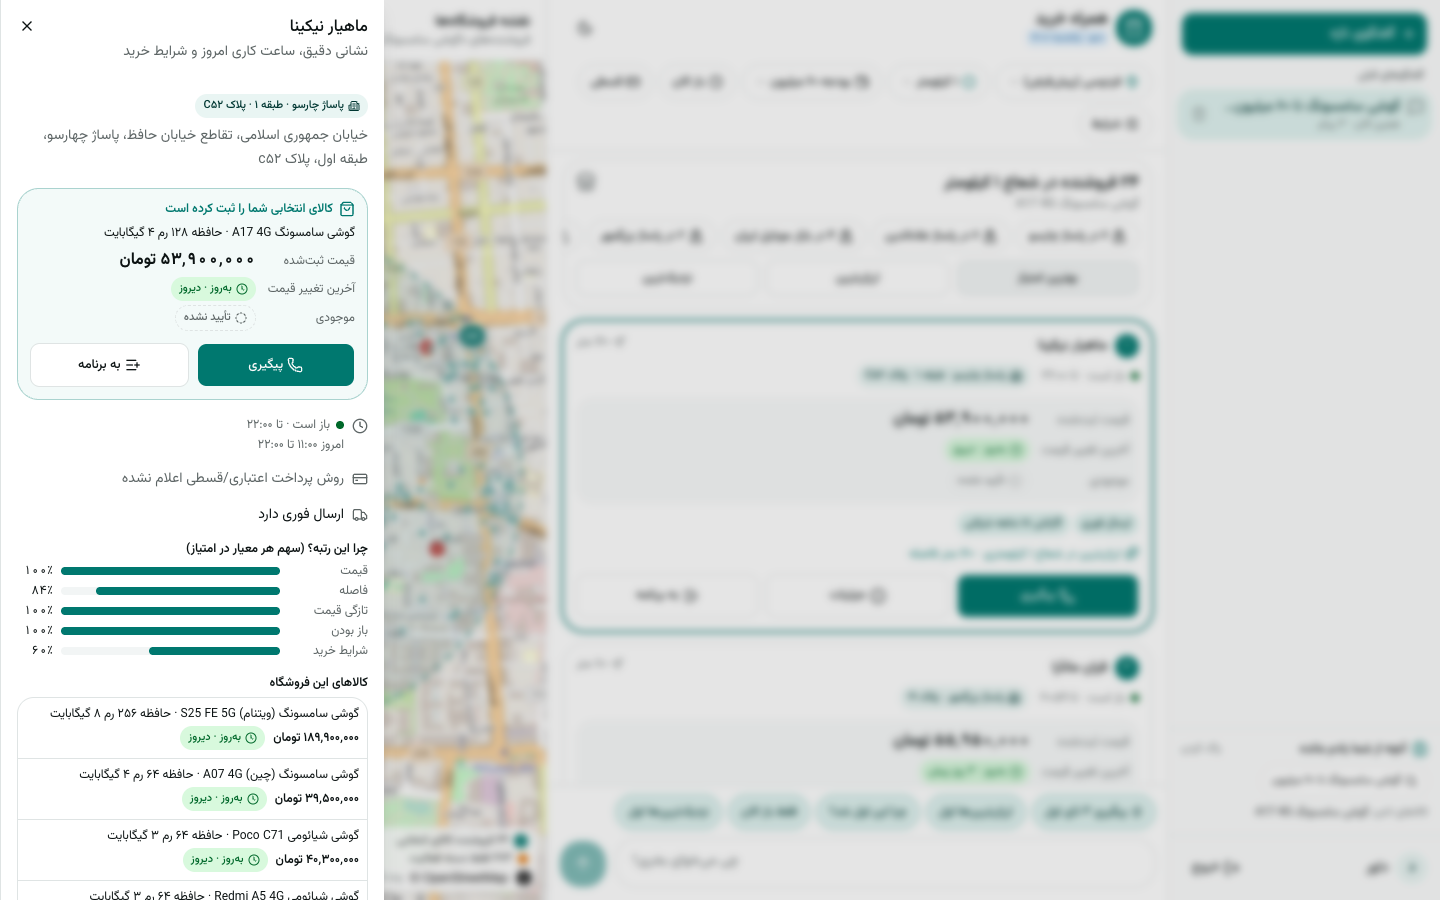
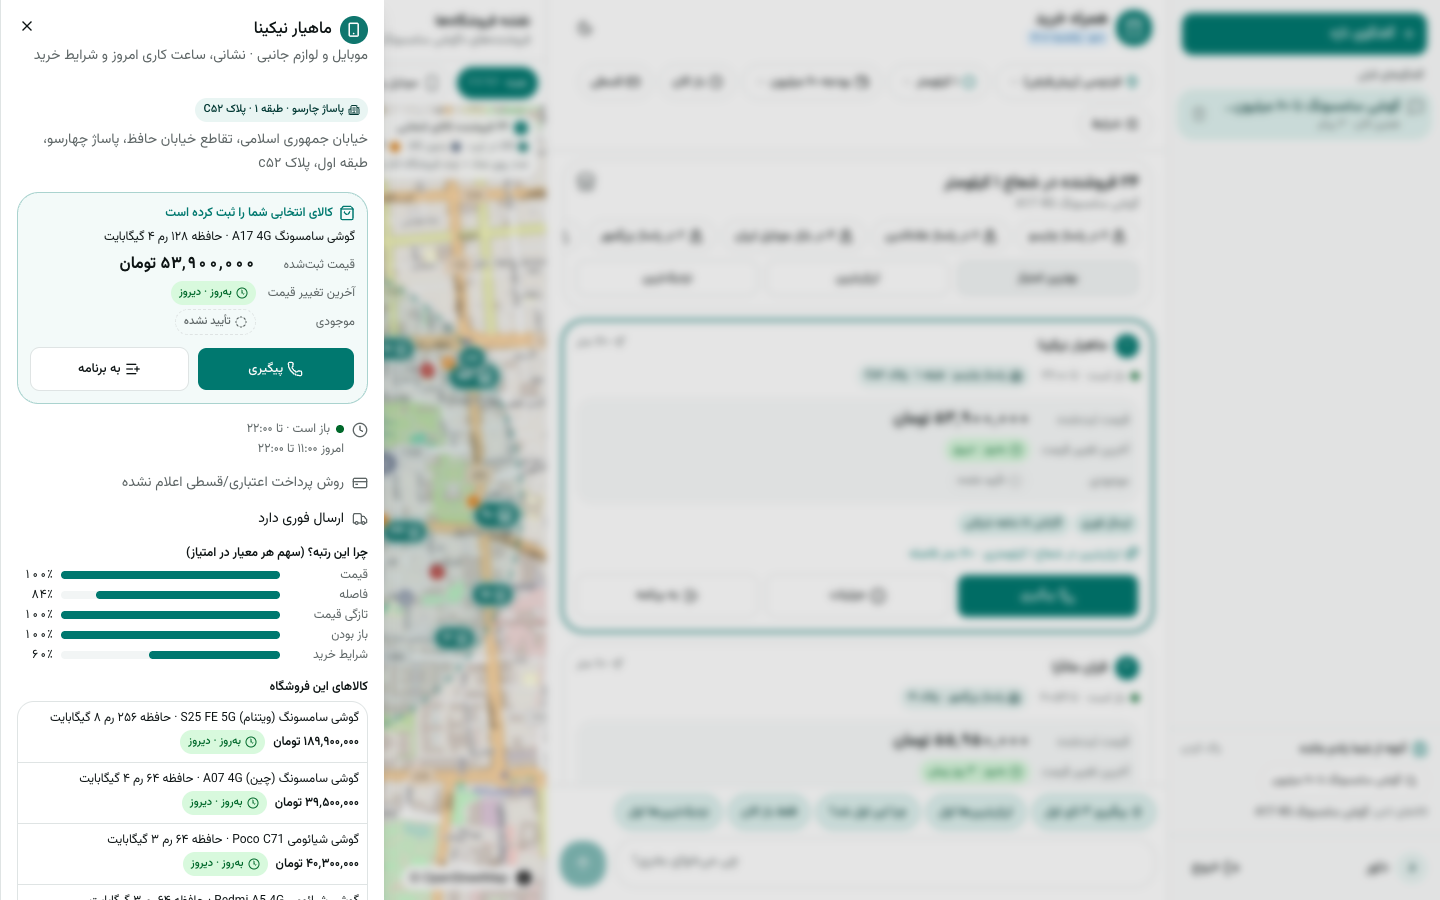
docs: shop types on the map, decisions 54–57, refreshed screenshots

Changed region(s): [[0.0, 0.0622, 0.4062, 1.0], [0.0938, 0.0, 0.25, 0.0622], [0.0625, 0.4044, 0.0938, 0.4356]]

diff --git a/README.md b/README.md
@@ -32,7 +32,7 @@
 - **Sign in with just a name** («اسمت چیه؟») — chats are saved per user. There is no password: whoever types the same name opens the same history (a deliberate hackathon trade‑off, [DECISIONS #43](docs/DECISIONS.md)).
 - **Chat history.** Previous chats are listed with their title and last activity (sidebar on desktop, sheet on mobile); opening one brings back every card — seller list, follow‑up board with its outcomes, visit plan — and continues the conversation. Each chat has its own URL (`/?c=<id>`), so back/forward and reload work.
 - **Memory across chats.** The usual location and radius, recent searches and recently chosen products are remembered per user. A new chat starts at the remembered location, greets by name and offers «از جایی که مانده بودیم» (resume the last chat or repeat a recent search); the agent gets the same facts as a short prompt block. «پاک کردن» clears it.
-- **Every shop on the map.** All shops within the radius are drawn (teal: lists the chosen product · amber: activity category only · gray: other shops), the current seller list as numbered pins, names on hover. Tapping any shop opens its sheet: address with mall/floor/unit, today's hours, conditions, the chosen product's offer with «پیگیری» / «به برنامه», the score breakdown (for shops in the seller list) and the shop's other products.
+- **Every shop on the map, by shop type.** All shops within the radius are drawn with an icon for their type (mobile, computer, audio/video, CCTV, electronic parts, electrical & lighting, tools, appliances, apparel, beauty, medical, auto… — derived from the ~4,000 activity categories, «فعالیت ثبت نشده» when the dataset has none) and a colour for what Torob knows (teal: lists products · gray: no listings · amber: only the activity category matches the chosen product). Chips above the map filter by type with counts. Shops that share a building (up to 45 at one point in the bazaar) are grouped into a pill with a shop icon and the count that zooms in on tap and, inside a mall, lists its shops. The current seller list stays as numbered pins. Tapping any shop opens its sheet: type, address with mall/floor/unit, today's hours, conditions, the chosen product's offer with «پیگیری» / «به برنامه», the score breakdown (for shops in the seller list) and the shop's other products.
 
 ### Transparency rules (visible on every seller card)
 - **Three separate fields, three visual treatments:** «قیمت ثبتشده» (listed price) · «آخرین تغییر قیمت» (green ≤ 7 d, amber ≤ 30 d, red older, gray unknown) · «موجودی» (stays «تأیید نشده» until a follow‑up confirms it).
@@ -44,11 +44,11 @@
 
 | Criterion (pts) | Where it shows |
 |---|---|
-| **Product (75)** | All four steps end to end; mall → floor → unit navigation from free‑text addresses (4,088 shops parsed); price‑freshness and suspicious‑price flags; category‑only shops separated; follow‑ups with automatic alternatives; visit plan with open‑at‑arrival warnings; shareable plan; checklist; every shop of the area selectable on the map; per‑user chat history with resume. |
+| **Product (75)** | All four steps end to end; mall → floor → unit navigation from free‑text addresses (4,088 shops parsed); price‑freshness and suspicious‑price flags; category‑only shops separated; follow‑ups with automatic alternatives; visit plan with open‑at‑arrival warnings; shareable plan; checklist; every shop of the area on the map by type, filterable and selectable; per‑user chat history with resume. |
 | **UX (75)** | Mobile‑first RTL (390 px) **and** a desktop layout (≥ 1024 px: history · chat · live map); Vazirmatn, Persian digits everywhere; chat **plus** structured controls: sticky ContextBar (location, radius, price cap, conditions, intent) re‑filters the list **instantly without the LLM**; generative UI cards; skeletons; empty states with one tappable fix; 44 px targets; dark mode; Lighthouse mobile **92 / 100 / 100** (M5 build). |
 | **Intelligence (50)** | Vercel AI SDK v7 agent with 10 tools; deterministic‑first category routing (product votes + trigram) with LLM refinement; Persian budget parser; explainable seller score and «چرا این اول شد؟» grounded in `score_breakdown`; proactive rules (stale price → follow up, out of stock → alternatives, confirmed → plan); memory across chats (usual location/radius, recent searches and products); automatic fallback to a rule‑based model when the provider fails. |
 | **Deploy (40)** | `docker compose up -d` → PostgreSQL 16, app (Next standalone, non‑root, healthcheck), Caddy (automatic HTTPS); migrations + **auto‑seed** on first boot (~30 s); `/api/healthz`; exact VPS commands in [docs/DEPLOY.md](docs/DEPLOY.md). |
-| **Engineering (40)** | TypeScript end to end, Drizzle schema & migrations, COPY‑based seed with 4 streaming passes, pure tested modules (107 unit tests), golden search suite, Playwright scenario (27 checks on phone and desktop viewports), CI (typecheck · lint · test), decisions log ([docs/DECISIONS.md](docs/DECISIONS.md)). |
+| **Engineering (40)** | TypeScript end to end, Drizzle schema & migrations, COPY‑based seed with 4 streaming passes, pure tested modules (142 unit tests), golden search suite, Playwright scenario (28 checks on phone and desktop viewports), CI (typecheck · lint · test), decisions log ([docs/DECISIONS.md](docs/DECISIONS.md)). |
 | **Dataset (20)** | Uses all three CSVs: Persian normalization (ی/ک, digits, ZWNJ), mall/floor/unit parser with spelling unification (علاالدین/علاءالدین/علائدین…), hours with `declared/closed/unsupported`, price age & suspicious‑price flags vs product median, payment providers with in‑person vs declared channel, warranty parsing, brand inference for the 75 % of products without a brand. |
 
 ## Architecture
@@ -58,7 +58,7 @@ flowchart LR
   subgraph Browser["Web — phone and desktop (Next.js, RTL)"]
     UI["Chat + generative cards<br/>ContextBar · SellerList · FollowupBoard · TripPlan"]
     HIST["Name sign-in · chat history"]
-    MAP["MapLibre + OSM tiles<br/>all shops + numbered sellers"]
+    MAP["MapLibre + OSM tiles<br/>shop-type icons · clusters · numbered sellers"]
   end
   subgraph App["Next.js 15 route handlers"]
     CHAT["/api/chat<br/>AI SDK v7 streamText + tools<br/>+ user memory in the prompt"]
@@ -165,12 +165,12 @@ app/            page, /plan/[id], /demo-reset, api/{chat,session,sellers,followu
 components/     app shell (login, history, ContextBar, sheets, composer, map column) and cards (products, compare, sellers, follow-ups, alternatives, plan, checklist)
 lib/auth.ts     name-only sign-in (cookie → users row), memory save
 lib/fa          Persian normalization, digits, formatting
-lib/data        mall/floor/unit parser, opening hours, price quality, payments, warranty
+lib/data        mall/floor/unit parser, opening hours, price quality, payments, warranty, shop types from activity categories
 lib/search      query parsing, category routing, product ranking, sellers + score, alternatives, places, shops near a point
 lib/agent       tools, system prompt, chats (session state + messages), memory, suggestions, offline model, checklist
 lib/sim         seller simulator, persona transcripts, follow-up service
 lib/plan        visit planner
-scripts         seed, golden, scenario, smoke, llm-check, tune-salt
+scripts         seed, golden, scenario, smoke, llm-check, tune-salt, shop-types-report
 docs            spec, run plan, DECISIONS, PROGRESS, DEPLOY, DEMO, screenshots
 ```
 

diff --git a/docs/DEMO.md b/docs/DEMO.md
@@ -9,7 +9,7 @@ Goal: from «گوشی سامسونگ تا ۶۰ میلیون» to a confirmed, ma
 3. With an LLM key the agent speaks freely; without one the header shows «حالت آفلاین» and the same flow runs with the rule‑based model (all numbers still come from tools).
 4. `SIM_SALT=hamrah-40` gives the mixed outcomes below for the top‑3 sellers.
 
-The whole flow is automated by `pnpm scenario <app-url>` (27 checks; `--desktop` for 1440×900, `--dark` for dark mode); the screenshots below come from it (desktop ones in `docs/screenshots/desktop/`).
+The whole flow is automated by `pnpm scenario <app-url>` (28 checks; `--desktop` for 1440×900, `--dark` for dark mode); the screenshots below come from it (desktop ones in `docs/screenshots/desktop/`).
 
 ## Script
 
@@ -19,7 +19,7 @@ The whole flow is automated by `pnpm scenario <app-url>` (27 checks; `--desktop`
 | 1 | Tap **«گوشی سامسونگ تا ۶۰ میلیون نزدیک من»** | 4 product cards: A17 128/4 (from ۵۳٬۹۰۰٬۰۰۰ · ۲۶ فروشنده), A07 64/4, A07 128/6, A17 128/6 flagged «کمی بالاتر از بودجه», each with a «چرا» line | Budget parsed deterministically; reasons are templated from data, not invented | `03-products.png` |
 | 2 | Tap **«مقایسه»** on the first two → **«مقایسه کن»** → **«انتخاب»** under A17 128/4 | Compare table (differing specs + price/seller rows), then the seller list | Step 1 → step 2 without typing | `04-compare.png` |
 | 3 | — | «۲۴ فروشنده در شعاع ۱ کیلومتر», cluster chips (چارسو ۶، علاءالدین ۶، بازار موبایل ایران ۴، بزرگمهر ۲، خانه موبایل ۲); cards with mall · floor · unit | Mall navigation parsed from free‑text addresses | `05-sellers.png`, `06-seller-cards.png` |
-| 3b | Tap **«نقشه»** (desktop: the map column) | Radius circle, **every shop of the area** as a dot (teal: lists the product · amber: activity category only · gray: other shops), the seller list as numbered pins; tap pin **«۱»** → shop sheet: address with mall/floor/unit, today's hours, the chosen product's offer with «پیگیری» / «به برنامه», score shares, other products | Any shop on the map can be opened and acted on | `07-map.png`, `08-map-shop-details.png` |
+| 3b | Tap **«نقشه»** (desktop: the map column) | Radius circle, **every shop of the area** with an icon for its type (teal: lists products · gray: no listings · amber bubble: only the activity category matches), shops of one building grouped into pills with a shop icon and their count, the seller list as numbered pins; type chips with counts above the map → tap **«موبایل و لوازم جانبی»** and back to «همه»; tap pin **«۱»** → shop sheet: type, address with mall/floor/unit, today's hours, the chosen product's offer with «پیگیری» / «به برنامه», score shares, other products. Tapping a pill zooms in; inside a mall it lists the shops | Any shop on the map can be found by type, opened and acted on | `07-map.png`, `07b-map-type-filter.png`, `08-map-shop-details.png` |
 | 3c | Tap **«باز الان»**, then the radius chip → **«۵۰۰ متر»** | List shrinks to 18 in place — no chat round trip | ContextBar re-filters without the LLM | `09-sellers-open-500m.png` |
 | 3d | Tap **«قسطی»** | 0 results + banner «حذف فیلتر قسطی (+۱۸)» → tap it | Relaxation hints; only 128 shops declare installments | `10-installment-relaxation.png` |
 | 4 | Point at the first card, then type **«چرا این اول شد؟»** | Three separate fields: قیمت ثبتشده · آخرین تغییر قیمت (green/amber/red) · موجودی «تأیید نشده»; answer from `why` + `score_breakdown` | Transparency rules of the challenge | `11-why-first.png` |
@@ -31,7 +31,7 @@ The whole flow is automated by `pnpm scenario <app-url>` (27 checks; `--desktop`
 
 ## Talking points (30 s wrap‑up)
 
-- **Product/UX:** four steps, chat + controls, mall → floor → unit, open‑at‑arrival, Persian everywhere; phone and desktop layouts; every shop selectable on the map.
+- **Product/UX:** four steps, chat + controls, mall → floor → unit, open‑at‑arrival, Persian everywhere; phone and desktop layouts; every shop on the map by type, filterable and selectable.
 - **Transparency:** listed price ≠ price age ≠ confirmed stock; unknown stays unknown; category‑only shops are separate.
 - **Intelligence:** tool‑calling agent with explainable ranking, proactive follow‑ups and alternatives, memory across chats; graceful offline fallback.
 - **Engineering/deploy:** one `docker compose up -d`, auto‑seed in ~30 s, healthz, CI, golden + scenario tests.

diff --git a/docs/PROGRESS.md b/docs/PROGRESS.md
@@ -130,10 +130,24 @@ Acceptance:
 - `pnpm scenario` with the live model (OpenAI `gpt-5.4-mini`, demo time Sunday 16:00): **27/27** on 390 px, **27/27** with `--desktop` (1440×900), and **27/27** against the rebuilt Docker image through Caddy (`http://localhost:8088`, 52 s). Screenshots: `docs/screenshots/` and `docs/screenshots/desktop/`.
 - `pnpm llm-check`: openai (`gpt-5.4-mini`) OK in 2.6 s, google (`gemini-3.1-flash-lite`) OK in 1.1 s, openrouter (`openai/gpt-4.1-mini`) OK in 2.1 s.
 
+## Post-v1 — Shop types on the map ✅
+
+Request (owner, 2026-10-23): shops were plain dots that did not read as shops until hovered; show an icon, different icons per shop type, and group/filter by type.
+
+Done:
+- 20 shop types from the activity categories (rules + majority vote, fallback to listed products, «فعالیت ثبت نشده» when the dataset has neither), cached per process; `/api/shops/near` returns the type and mall; the shop sheet shows the type.
+- Map: a badge per shop with its type icon (colour = lists products / no listings / category-only), cluster pills «shop icon + Persian count» with an amber category-only bubble, tap to zoom or — inside one building — a list of its shops; type chips with counts; collapsible legend on phones.
+- Unit tests for the type rules (incl. substring traps such as «تهویه» ⊃ «هویه», «آداپتور» ⊃ «پتو»).
+
+Acceptance:
+- `pnpm typecheck && pnpm lint && pnpm test` green (142 unit tests).
+- `pnpm scenario`: **28/28** on 390 px, **28/28** with `--desktop` and **28/28** against the rebuilt Docker image (`http://localhost:8088`) (new checks: type chips with counts, a chip filters the map, the shop sheet shows the type). Screenshots `07-map.png`, `07b-map-type-filter.png` (phone and desktop).
+- Around the default location (1 km): 2,692 shops besides the sellers — mobile 494, CCTV 187, tools 177, audio/video 166, …, 724 «فعالیت ثبت نشده».
+
 ## Final status
 
-- `pnpm typecheck && pnpm lint && pnpm test && pnpm golden` → green (107 unit tests; golden 15/15 queries + 10/10 seller checks).
-- Demo scenario §13 steps 1–7 plus history/memory (step 8): `pnpm scenario` 27/27 (phone, desktop and Docker), `?demo_time=` and `/demo-reset?name=` supported.
+- `pnpm typecheck && pnpm lint && pnpm test && pnpm golden` → green (142 unit tests; golden 15/15 queries + 10/10 seller checks).
+- Demo scenario §13 steps 1–7 plus history/memory (step 8): `pnpm scenario` 28/28 (phone, desktop and Docker), `?demo_time=` and `/demo-reset?name=` supported.
 - All three LLM providers verified live on 2026-10-23 (`pnpm llm-check`: 3 ok).
 - CI: GitHub Actions (install → typecheck → lint → test) on every push.
 - Parsed malls for 4,088 shops (after parser refinements in M1).

diff --git a/docs/DECISIONS.md b/docs/DECISIONS.md
@@ -57,3 +57,7 @@ One line per deviation from `docs/01-master-build-spec.md`, with the reason.
 | 51 | Post-v1 | `faText` is applied to all LLM-authored text (assistant messages, checklist items, transcripts). | Live models write ASCII digits («حافظه 128»); the UI rule is Persian digits everywhere. |
 | 52 | Post-v1 | `/api/me` answers 200 `{user:null}` when signed out. | Browsers log a 401 as a console error, and being signed out is a normal state. |
 | 53 | Post-v1 | The Google model in `llm-check` and the docs is `gemini-3.1-flash-lite`. | `gemini-2.5-flash` is no longer offered to new API users; `gemini-3.1-flash-lite` passes the tool-call check in ~4 s. |
+| 54 | Post-v1 | Shop type for the map = 20 types (`lib/data/shop-types.ts`) derived from the ~4,000 flat activity categories by ordered keyword rules (`lib/data/shop-type-rules.ts`, word-boundary matches, ambiguous categories vote with weight ½ or not at all); a shop's type is the majority vote over its categories, else over the categories of the products it lists (weighted by offers). 92 % of category memberships get a vote (`pnpm tsx scripts/shop-types-report.ts`). The 1,797 shops with neither are «فعالیت ثبت نشده»; shop names are not used because they are synthetic in the dataset. | The dataset has no category hierarchy; rules are explainable and testable, and unknown stays unknown instead of being guessed. |
+| 55 | Post-v1 | Types are computed in the app for all shops at first use and cached for an hour (`lib/search/shop-types.ts`), not stored by the seed. | Works on databases that are already seeded (`AUTO_SEED` skips a loaded DB); ~0.6 s once per hour. |
+| 56 | Post-v1 | Map icons are canvas images made on demand through MapLibre's `setMissingStyleImageResolver`: a badge per (type, colour) with the lucide glyph, and cluster pills with a shop glyph, the Persian count and an amber bubble for category-only shops. Shops are clustered (`clusterRadius` 30, up to the max zoom 18); tapping a pill zooms in, and a pill that cannot split (one building) lists its shops. | The OSM raster style has no glyph server, so MapLibre cannot draw text; the page font draws Persian digits. Up to 45 shops share one point in the bazaar, which no zoom level can separate. |
+| 57 | Post-v1 | Type chips with counts filter the shop layer client-side (`setData` re-clusters); while a type is selected, cluster pills show that type's glyph. On phones the legend opens from a «راهنما» button. | Instant filtering without a request; the 320 px phone map stays readable. |
